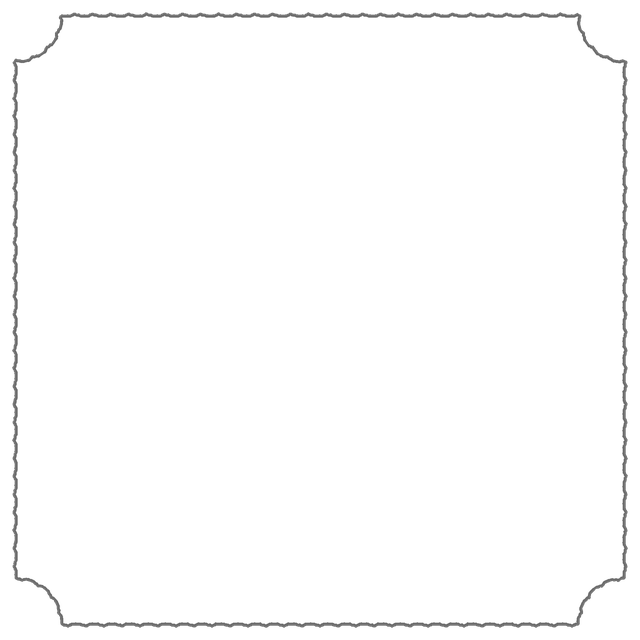
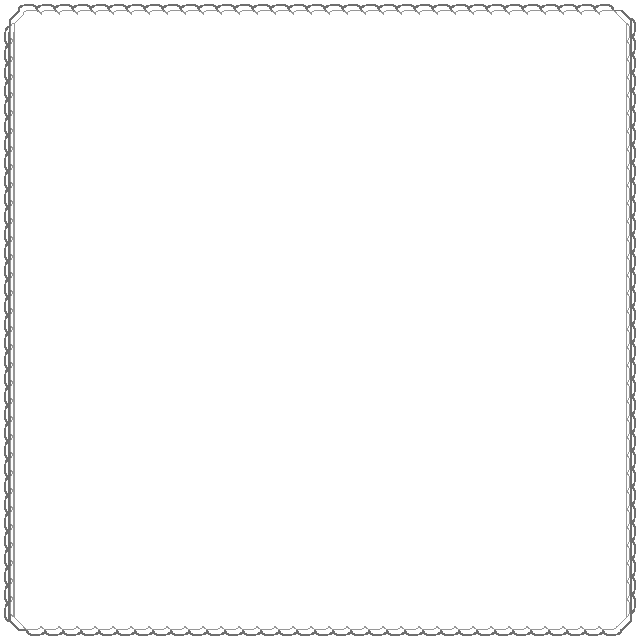
Full revert rect frames + scallop CSS to pre-flow212 (flow215).
Restore images/frame-box.png and frame-wide.png bytes from a596223
(last good before f7c1158). Remove flow212 frame.png alias. Put back
border-image slices 42/48, white .scallop background, and original
border widths. Tip oval frame-platter.png stays flow213 U-lobes.

Changed region(s): [[0.0, 0.0, 1.0, 1.0]]

diff --git a/tests/menus.test.js b/tests/menus.test.js
@@ -215,14 +215,14 @@ assert(fs.existsSync(path.join(root, 'menus-print.js')), 'menus-print.js exists'
 assert(fs.existsSync(path.join(root, 'images/eight-bells-logo.png')), 'logo asset exists');
 assert(fs.existsSync(path.join(root, 'images/frame-wide.png')), 'scalloped frame asset exists');
 assert(fs.existsSync(path.join(root, 'images/frame-box.png')), 'box frame asset exists');
-assert(fs.existsSync(path.join(root, 'images/frame.png')), 'frame.png alias exists for cut-corner rects');
+assert(!fs.existsSync(path.join(root, 'images/frame.png')),
+  'frame.png cut-corner alias must stay removed (pre-flow212 had no frame.png)');
 assert(fs.existsSync(path.join(root, 'images/frame-platter.png')), 'tip oval platter asset exists');
 var platterBytes = fs.statSync(path.join(root, 'images/frame-platter.png')).size;
 assert(platterBytes > 20000,
   'tip oval asset carries rounded fine-scallop detail (not a tiny smooth double-stroke ellipse)');
 (function assertTipPlatterRoundedULobes() {
-  // Tip oval keeps soft U-lobe pitch (~37), not denser saw-tooth teeth (live flow212
-  // still had the jagged platter). Rect panels remain cut-corner frame-wide/box.
+  // Tip oval keeps soft U-lobe pitch (~37) from flow213; rect panels are classic frames.
   var cp = require('child_process');
   var py = [
     'from PIL import Image',
@@ -245,38 +245,32 @@ assert(platterBytes > 20000,
   var out = cp.execFileSync('python3', ['-c', py, root], { encoding: 'utf8' });
   assert(/ok/.test(out), 'tip platter scallop period is rounded U-lobes (~37), not denser teeth');
 })();
-(function assertCutCornerFrameAssets() {
-  // PNG corners must be transparent (true cut-off), with ink inside the slice
-  // region so border-image cannot collapse to sharp 90° boxes.
-  // Edge pitch must match pre-flow212 (box~18, wide~37) — not finer flow212 rewrite.
+(function assertRectFramesMatchPreFlow212() {
+  // Exact bytes from a596223 (last good before f7c1158 cut-corner rewrite).
+  var crypto = require('crypto');
+  var expect = {
+    'frame-box.png': '45c7ba4a2f408936743eb8af7ac95714',
+    'frame-wide.png': '539b09eb8249f1474792bd392467ae2c'
+  };
+  Object.keys(expect).forEach(function (name) {
+    var buf = fs.readFileSync(path.join(root, 'images', name));
+    var md5 = crypto.createHash('md5').update(buf).digest('hex');
+    assert(md5 === expect[name], name + ' md5 ' + md5 + ' must equal pre-flow212 ' + expect[name]);
+  });
+  // Corners must NOT be the transparent inverse-fillet cut-corners from flow212+.
   var cp = require('child_process');
   var py = [
     'from PIL import Image',
-    'import numpy as np, sys',
+    'import sys',
     'root=sys.argv[1]',
-    'def period(name):',
-    '  a=np.array(Image.open(f"{root}/images/{name}").convert("RGBA")); w=a.shape[1]',
-    '  ink=(a[:,:,0]<120)&(a[:,:,3]>40)',
-    '  ys=[np.where(ink[:,x])[0][0] for x in range(w//5,4*w//5) if ink[:,x].any()]',
-    '  ys=np.array(ys,float); t=np.arange(len(ys))',
-    '  r=ys-np.polyval(np.polyfit(t,ys,2),t); r-=r.mean()',
-    '  ac=np.correlate(r,r,mode="full"); ac=ac[len(ac)//2:]; ac/=(ac[0] or 1)',
-    '  for lag in range(6,min(90,len(ac)-1)):',
-    '    if ac[lag]>ac[lag-1] and ac[lag]>=ac[lag+1] and ac[lag]>0.2: return lag',
-    '  return None',
-    'samples=[("frame-box.png",64,18),("frame-wide.png",80,37),("frame.png",64,18)]',
-    'for name,sl,expect in samples:',
+    'for name in ("frame-box.png","frame-wide.png"):',
     '  im=Image.open(f"{root}/images/{name}").convert("RGBA"); w,h=im.size; px=im.load()',
-    '  for x,y in [(2,2),(w-3,2),(2,h-3),(w-3,h-3)]:',
-    '    if px[x,y][3]>=30: raise SystemExit(f"{name} corner opaque")',
-    '  ink=sum(1 for y in range(sl) for x in range(sl) if px[x,y][3]>10 and sum(px[x,y][:3])<700)',
-    '  if ink<40: raise SystemExit(f"{name} TL slice ink={ink}")',
-    '  p=period(name)',
-    '  if p is None or abs(p-expect)>4: raise SystemExit(f"{name} pitch={p} expect~{expect}")',
+    '  opaque=sum(1 for x,y in [(2,2),(w-3,2),(2,h-3),(w-3,h-3)] if px[x,y][3]>=200)',
+    '  if opaque<3: raise SystemExit(f"{name} looks cut-corner (opaque corners={opaque})")',
     'print("ok")'
   ].join('\n');
   var out = cp.execFileSync('python3', ['-c', py, root], { encoding: 'utf8' });
-  assert(/ok/.test(out), 'cut-corner frames: transparent notches + pre-flow212 scallop pitch');
+  assert(/ok/.test(out), 'rect frames keep classic opaque corners (no new inward cut-corners)');
 })();
 var printJs = fs.readFileSync(path.join(root, 'menus-print.js'), 'utf8');
 assert(printJs.indexOf('EBMenuPrint') !== -1 && printJs.indexOf('scallop') !== -1, 'print builder has scalloped boxes');
@@ -284,14 +278,14 @@ assert(/fine scallop|rounded fine scallop/i.test(printJs),
   'print CSS/comments name fine-scallop tip oval (Tips / frame-wide family)');
 assert(/rounded fine scallops|same pitch|NOT dense saw-tooth|~37px pitch/i.test(printJs),
   'print comments encode tip oval rounded U-lobe waveform (not denser saw-tooth)');
-assert(/cut-off concave|inverse fillet|cut-corner/i.test(printJs),
-  'print CSS/comments encode cut-corner concave rectangular frames system-wide');
-assert(/border-image-slice:64 fill/.test(printJs) && /border-image-slice:80 fill/.test(printJs),
-  'rect scallop slices cover full concave corners (64 box / 80 wide)');
-assert(/\.scallop\{[^}]*background:transparent/.test(printJs),
-  'base .scallop background is transparent so cut corners are not filled white');
-assert(!/border-image-slice:42 fill/.test(printJs),
-  'old slice:42 (missed wide corner ink → sharp 90°) is gone');
+assert(/border-image-slice:42 fill/.test(printJs) && /border-image-slice:48 fill/.test(printJs),
+  'rect scallop slices restored to pre-flow212 (42 wide / 48 box)');
+assert(/\.scallop\{[^}]*background:#fff/.test(printJs),
+  'base .scallop background is white (classic Canva frames, not transparent cut-corners)');
+assert(!/border-image-slice:64 fill/.test(printJs) && !/border-image-slice:80 fill/.test(printJs),
+  'raised cut-corner slices 64/80 from flow212+ must be gone');
+assert(!/cut-off concave|inverse fillet|cut-corner/i.test(printJs),
+  'print CSS/comments must not encode cut-corner rectangular frames');
 assert(/border-radius:0/.test(printJs) && !/scallop-platter[\s\S]{0,180}border-radius:50%/.test(printJs),
   'fine-scallop tip oval does not clip bumps with border-radius 50%');
 assert(printJs.indexOf('toRoman') !== -1 && printJs.indexOf('Week of') !== -1, 'print tracker week + Roman numeral');
@@ -857,8 +851,8 @@ assert(page.indexOf('JS already placed the food map') !== -1 &&
   'generate lets Gemini refine Best-fit widths only — not locked shapes or Sharing stacks');
 assert(ingestJs.indexOf('mammoth') !== -1 && ingestJs.indexOf('readDocx') !== -1, 'Word .docx ingest via mammoth');
 assert(page.indexOf('.docx') !== -1 && page.indexOf('wordprocessingml') !== -1, 'upload accepts Word .docx');
-assert(page.indexOf('flow214') !== -1, 'menus page cache-bust is flow214');
-assert(fs.readFileSync(path.join(root, 'index.html'), 'utf8').indexOf('flow214') !== -1, 'hub menus link cache-bust is flow214');
+assert(page.indexOf('flow215') !== -1, 'menus page cache-bust is flow215');
+assert(fs.readFileSync(path.join(root, 'index.html'), 'utf8').indexOf('flow215') !== -1, 'hub menus link cache-bust is flow215');
 (function checkMenusStaffStableEntry() {
   var staffPath = path.join(root, 'menus-staff.html');
   assert(fs.existsSync(staffPath), 'menus-staff.html stable staff entry exists');
@@ -1775,10 +1769,9 @@ assert(printJs.indexOf('foot-logo') !== -1, 'page-2 logo when space');
 assert(printJs.indexOf('sandwichNote') !== -1 || printJs.indexOf('Sandwiches') !== -1, 'sandwiches selling box');
 assert(printJs.indexOf('frame-wide.png') !== -1 && printJs.indexOf('frame-box.png') !== -1, 'scallop frame assets');
 assert(fs.existsSync(path.join(root, 'images/frame-box.png')), 'box frame asset exists');
-assert(fs.existsSync(path.join(root, 'images/frame.png')), 'frame.png cut-corner alias exists');
 assert(fs.existsSync(path.join(root, 'images/lunch-club-mark.png')), 'lunch club mark exists');
 assert(/scallop-box\{[^}]*frame-box\.png/.test(printJs) && /scallop-wide\{[^}]*frame-wide\.png/.test(printJs),
-  'rect feature panels map scallop-box/wide to cut-corner frame assets');
+  'rect feature panels map scallop-box/wide to classic Canva frame assets');
 
 // stub localStorage for version counter
 global.localStorage = {

diff --git a/menus-print.js b/menus-print.js
@@ -525,11 +525,8 @@
   function scallop(inner, kind, extraCls) {
     // Real Canva/print frames via border-image so waves sit in the border
     // gutter and never cut through dish text (unlike stretched SVG/PNG fill).
-    // Rectangular frames (box + wide): pre-flow212 scallop character/pitch/weight
-    // with cut-off concave corners only (inverse fillet) — never the finer
-    // whole-box waveform from flow212, never sharp 90°. box = tighter wave
-    // (~18px); wide = looser (~37px, matches tip platter). Tip-only adds
-    // scallop-platter (oval via frame-platter.png) and stays oval.
+    // box = tight scallop, squarer corners; wide = looser wave, rounder corners.
+    // Tip-only also adds scallop-platter (oval + fine scallops via frame-platter.png).
     var cls = kind === 'box' ? 'scallop scallop-box' : 'scallop scallop-wide';
     if (extraCls) cls += ' ' + String(extraCls).trim();
     return '<div class="' + cls + '"><div class="scallop-pad">' + inner + '</div></div>';
@@ -584,7 +581,7 @@
     return String(dateStr || '');
   }
 
-  /** One scalloped event/selling box. frameKind: 'box' or 'wide' (both rect cut-corner). */
+  /** One scalloped event/selling box. frameKind: 'box' (rect) or 'wide' (oval). */
   function renderOnePromoBox(promos, frameKind) {
     promos = (promos || []).filter(function (p) { return p && p.title; });
     if (!promos.length) return '';
@@ -4398,25 +4395,18 @@
       '.sec-title.soft{font-size:min(calc(var(--title) - 2pt),var(--title-max));letter-spacing:.1em}' +
       '.sec-title.under{text-align:center;text-decoration:underline;text-underline-offset:3px;margin-top:var(--sec-gap)}' +
       '.classics-block{margin-top:4px}' +
-      /* System-wide rectangular feature frames: pre-flow212 scallop waveform
-         + cut-off concave corners (inverse fillet) only. Transparent PNG
-         corners + transparent element background so notches are not filled
-         as 90° boxes. Tip-only oval is excluded via .scallop-platter below. */
-      '.scallop{margin:0 0 8px;background:transparent;position:relative;height:fit-content;' +
-        'border-style:solid;border-color:transparent;border-width:14px;' +
-        'border-image-slice:64 fill;border-image-repeat:stretch;border-image-width:14px;' +
-        'overflow:hidden;max-width:100%;' +
-        '-webkit-print-color-adjust:exact;print-color-adjust:exact}' +
-      // Cut-corner Canva frames: restored pre-flow212 edge character
-      // (box ~18px pitch, wide ~37px). Slice covers full concave corner
-      // (never slice:42 — that dropped ink into sharp 90° boxes).
-      '.scallop-wide{border-image-source:url("' + asset('frame-wide.png') + '");border-width:14px;border-image-width:14px;border-image-slice:80 fill}' +
-      '.scallop-box{border-image-source:url("' + asset('frame-box.png') + '");border-width:14px;border-image-width:14px;border-image-slice:64 fill}' +
+      '.scallop{margin:0 0 8px;background:#fff;position:relative;height:fit-content;' +
+        'border-style:solid;border-color:transparent;border-width:12px;' +
+        'border-image-slice:48 fill;border-image-repeat:stretch;border-image-width:12px;' +
+        'overflow:hidden;max-width:100%}' +
+      // Original Canva frames: box = tight scallop, wide = looser wave. Single line only.
+      '.scallop-wide{border-image-source:url("' + asset('frame-wide.png') + '");border-width:12px;border-image-width:12px;border-image-slice:42 fill}' +
+      '.scallop-box{border-image-source:url("' + asset('frame-box.png') + '");border-width:12px;border-image-width:12px;border-image-slice:48 fill}' +
       // Adjacent food scallops: matching frames pick the other wave on the neighbour.
       '.cols-balanced > .col:has(> .col-body > .scallop-box) + .col > .col-body > .scallop-box{' +
-        'border-image-source:url("' + asset('frame-wide.png') + '");border-image-slice:80 fill}' +
+        'border-image-source:url("' + asset('frame-wide.png') + '");border-image-slice:42 fill}' +
       '.cols-balanced > .col:has(> .col-body > .scallop-wide:not(.scallop-platter)) + .col > .col-body > .scallop-wide:not(.scallop-platter){' +
-        'border-image-source:url("' + asset('frame-box.png') + '");border-image-slice:64 fill}' +
+        'border-image-source:url("' + asset('frame-box.png') + '");border-image-slice:48 fill}' +
       // Bottom pad clears dashed/scallop border so below-box notes (Little Bells
       // Sunday roast line) never crop against their own frame.
       '.scallop-pad{padding:6px 12px 12px;overflow:hidden;min-width:0}' +
@@ -4535,9 +4525,9 @@
       '.sandwich-promo .note-line{font-weight:500}' +
       '.sandwich-promo .desc{font-weight:300;color:#5a534a}' +
       /* Tip-only sell oval: ellipse + rounded fine scallops (frame-platter.png).
-         Soft U-curve lobes at ~37px pitch (waveform match to pre-cut-corner
-         Tips / frame-wide family) — NOT dense saw-tooth / pointy teeth,
-         NOT big-lobe waves. Rect panels stay pre-flow212 scallop + cut-corner. */
+         Soft U-curve lobes at ~37px pitch (waveform match to Tips / frame-wide
+         family) — NOT dense saw-tooth / pointy teeth, NOT big-lobe waves.
+         Rect panels use classic Canva frame-box / frame-wide (no cut-corners). */
       /* Tip-only: fine-scallop oval hugs the sell words; text optically centred
          (equal air top/bottom via flex + even pad; prefer one sell line). */
       '.sandwich-tip-only{' +
@@ -4578,9 +4568,9 @@
         'padding:14px 28px!important;display:flex;flex-direction:column;' +
         'align-items:center;justify-content:center;' +
         'box-sizing:border-box;min-height:0;width:max-content;max-width:100%;margin:0}' +
-      /* Stacked tip + feature panel: tip keeps the fine-scallop oval; panel uses cut-corner rect. */
+      /* Stacked tip + feature panel: tip keeps the fine-scallop oval; panel uses the other wave. */
       '.col:has(.sandwich-tip-only) > .col-feature > .scallop-wide:not(.scallop-platter){' +
-        'border-image-source:url("' + asset('frame-box.png') + '");border-image-slice:64 fill}' +
+        'border-image-source:url("' + asset('frame-box.png') + '");border-image-slice:48 fill}' +
       '.note-line{font-size:10.5pt;font-weight:500;margin:4px 0}' +
       /* Tip-only note-line must win over the generic .note-line margin above. */
       '.sandwich-tip-only .note-line{margin:0!important}' +
@@ -4598,8 +4588,8 @@
       '.fill-tight{--dish-gap:14px;--sec-gap:13px;--name:11.1pt;--desc:10pt;--title:17pt;--promo:11.1pt}' +
       '.fill-compact{--dish-gap:13px;--sec-gap:12px;--name:11.05pt;--desc:10pt;--title:16.5pt;--promo:11.05pt}' +
       '.fill-dense{--dish-gap:13px;--sec-gap:11px;--name:11pt;--desc:10pt;--title:16pt;--promo:11pt}' +
-      '.fill-compact .scallop:not(.scallop-platter),.fill-dense .scallop:not(.scallop-platter){border-width:12px;border-image-width:12px;margin-bottom:5px}' +
-      '.fill-dense .scallop:not(.scallop-platter){border-width:11px;border-image-width:11px}' +
+      '.fill-compact .scallop,.fill-dense .scallop{border-width:10px;border-image-width:10px;margin-bottom:5px}' +
+      '.fill-dense .scallop{border-width:9px;border-image-width:9px}' +
       /* Tip platter keeps the oval asset — density must not re-enable border-image. */
       '.fill-compact .scallop-platter,.fill-dense .scallop-platter,' +
         '.fill-compact .scallop:has(.sandwich-tip-only),.fill-dense .scallop:has(.sandwich-tip-only){' +

diff --git a/index.html b/index.html
@@ -604,7 +604,7 @@
       'giftcards-eightbells': 'https://www.eightbellsbolney.com/staff/vouchers',
       // Standalone Teya CSV reader (browser-only). Does not feed paperwork.
       'cardtakings-windmill': 'card-takings.html?venue=windmill',
-      'menus-eightbells': 'menus.html?v=20261010-flow214',
+      'menus-eightbells': 'menus.html?v=20261010-flow215',
       'rooms-windmill': 'https://rooms.windmilllittleworth.com',
       'payroll': 'https://owner.kinfoldinns.co.uk/payroll.html?v=20260901-xero-pull-timeout',
       'staffhub': 'https://script.google.com/macros/s/AKfycbwcE86RmdBYqgYESAjENcMmrBDW4UZjg9NnpSOnYxnSdwdc1IoRmJUgH900qnEp_ov7/exec'

diff --git a/menus.html b/menus.html
@@ -427,9 +427,9 @@
     <div class="menus no-print" id="menuPicker" role="tablist" aria-label="Which menu"></div>
     <div id="editor"></div>
   </main>
-  <script src="menus.js?v=20261010-flow214"></script>
-  <script src="menus-print.js?v=20261010-flow214"></script>
-  <script src="menus-ingest.js?v=20261010-flow214"></script>
+  <script src="menus.js?v=20261010-flow215"></script>
+  <script src="menus-print.js?v=20261010-flow215"></script>
+  <script src="menus-ingest.js?v=20261010-flow215"></script>
   <script>
     if (window.parent !== window) document.documentElement.classList.add('iframed');
 
